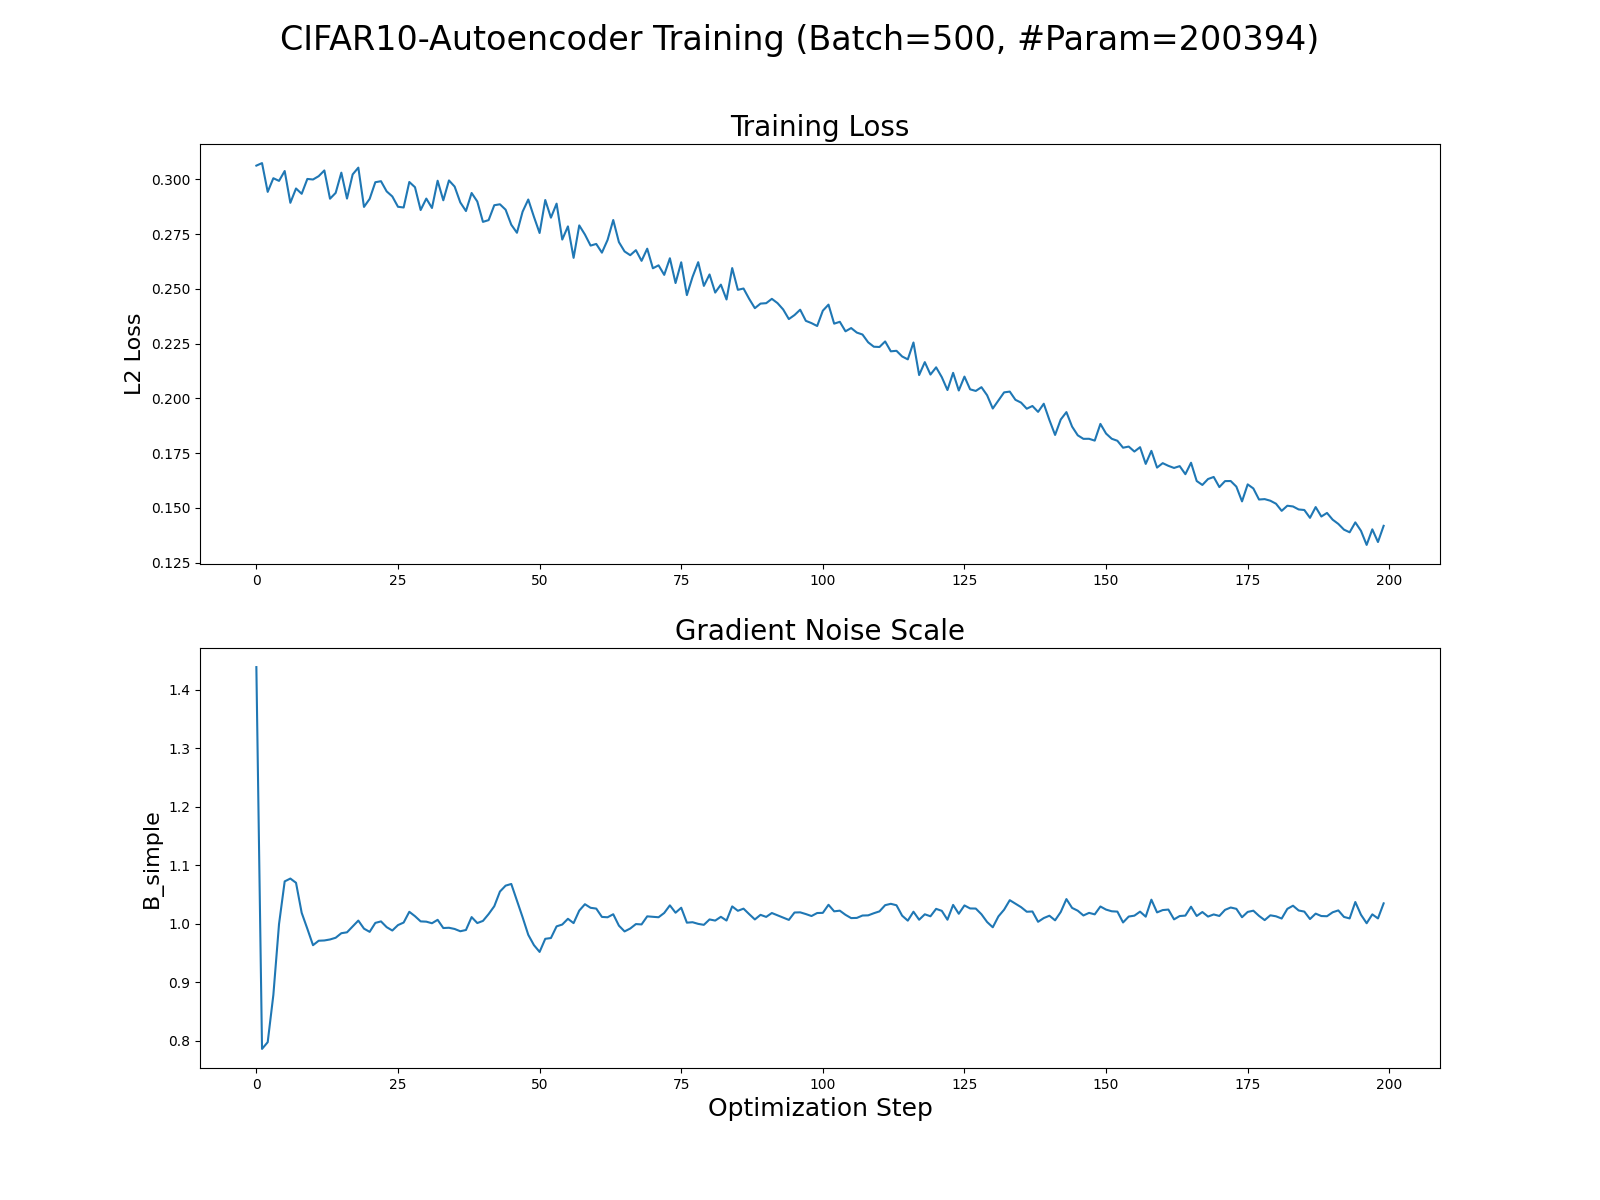
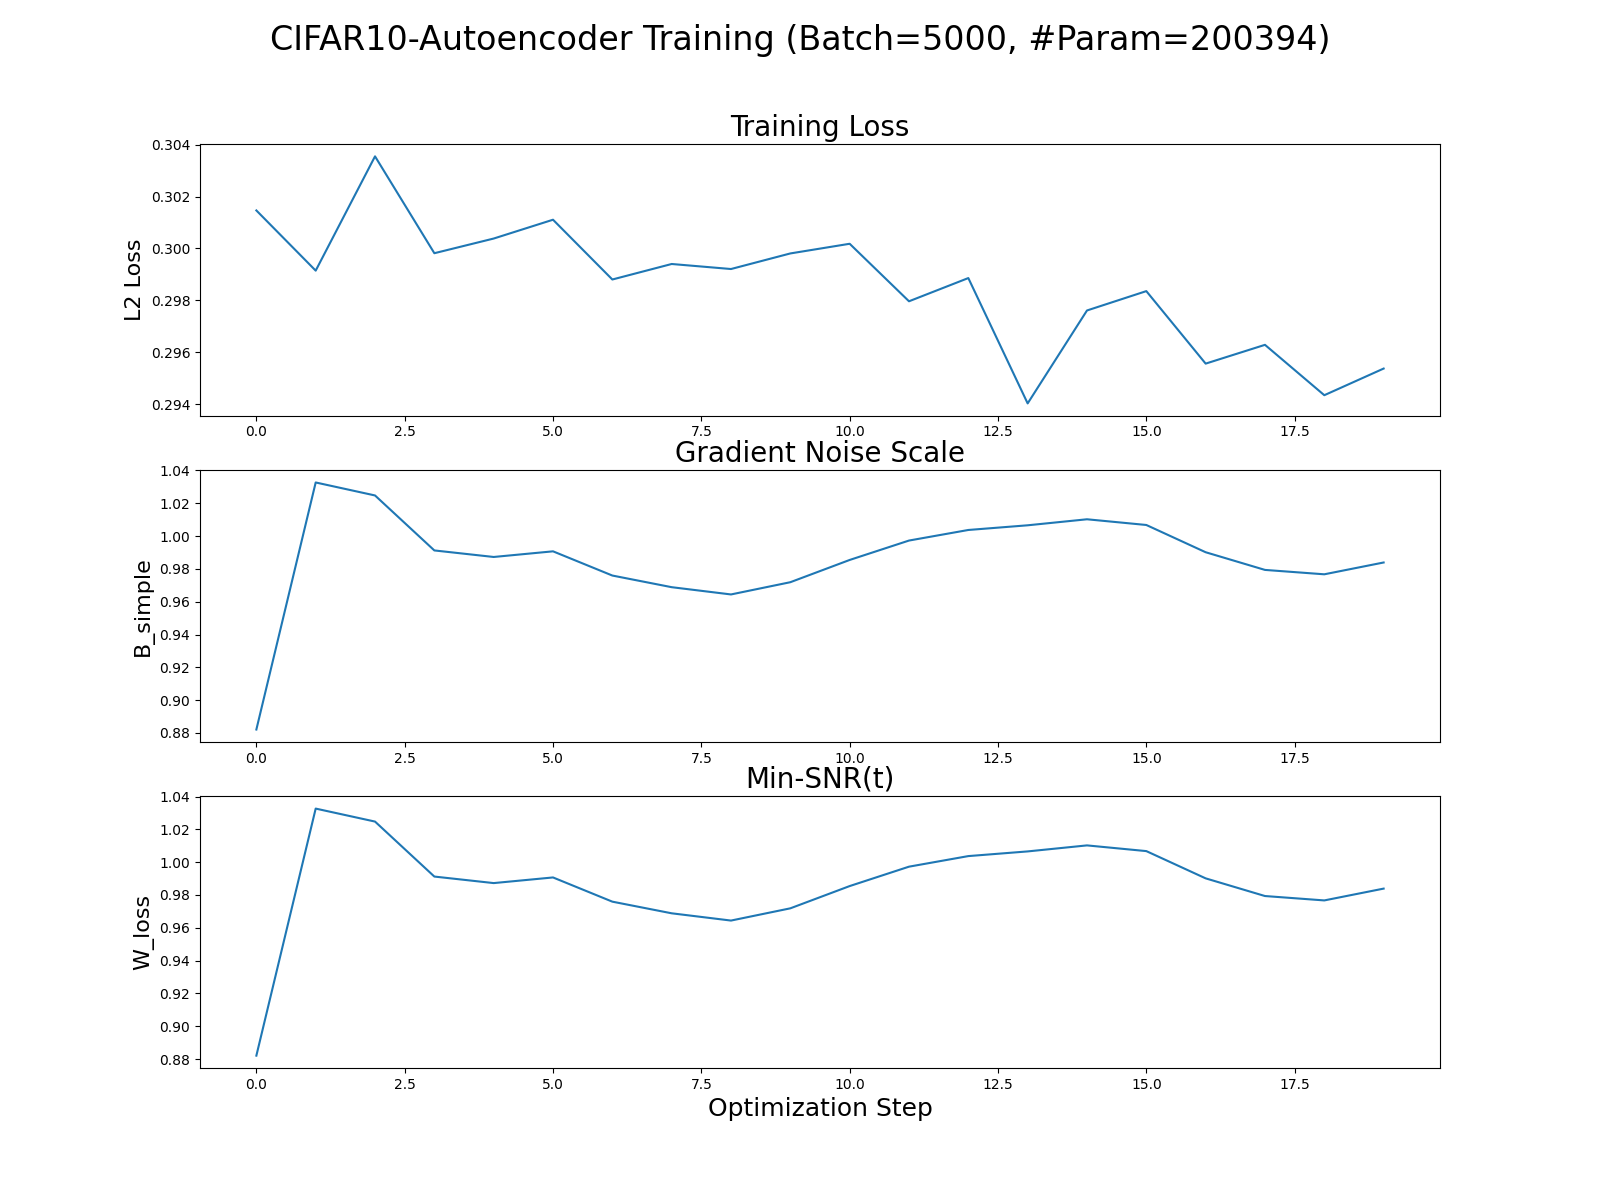
Min-SNR depricated, utils file, refactoring

diff --git a/simple_train.py b/simple_train.py
@@ -17,6 +17,7 @@ from tqdm import tqdm
 import diffusion
 #######################################################
 from GNS import GradientNoiseScale, get_gradient_vector
+from utils import visualize_training_gns
 #######################################################
 
 
@@ -32,12 +33,12 @@ def set_seed(seed, device):
         torch.cuda.manual_seed_all(seed)
 
 
-class Autoencoder(nn.Module):
+class SmallAE(nn.Module):
     """
     Simple Autoencoder Network
     """
     def __init__(self, img_shape=(3, 32, 32)):
-        super(Autoencoder, self).__init__()
+        super(SmallAE, self).__init__()
         C, H, W = img_shape
         self.device = device
         self.flatten = nn.Flatten()
@@ -63,6 +64,45 @@ class Autoencoder(nn.Module):
         return x
 
 
+
+class LargeAE(nn.Module):
+    def __init__(self, img_shape=(3, 32, 32)):
+        super(LargeAE, self).__init__()
+        C, H, W = img_shape
+        self.device = device
+        self.flatten = nn.Flatten()
+        self.unflatten = nn.Unflatten(dim=1, unflattened_size=(C, H, W))
+        self.encoder = nn.Sequential(
+            nn.Linear(C * H * W, 256),
+            nn.ReLU(),
+            nn.Linear(256, 128),
+            nn.ReLU(),
+            nn.Linear(128, 64),
+            nn.ReLU(),
+            nn.Linear(64, 32),
+            nn.ReLU(),
+            nn.Linear(32, 10)
+        )
+        self.decoder = nn.Sequential(
+            nn.Linear(10, 32),
+            nn.ReLU(),
+            nn.Linear(32, 64),
+            nn.ReLU(),
+            nn.Linear(64, 128),
+            nn.ReLU(),
+            nn.Linear(128, 256),
+            nn.ReLU(),
+            nn.Linear(256, C * H * W)
+        )
+
+    def forward(self, x: Tensor):
+        x = x.to(self.device)
+        x = self.flatten(x)
+        x = self.encoder(x)
+        x = self.decoder(x)
+        x = self.unflatten(x)
+
+
 def train_cifar(args, device):
     ## Arguments
     EPOCH = args.epoch
@@ -74,7 +114,13 @@ def train_cifar(args, device):
     loader = DataLoader(cifar10, batch_size=B_SIZE, shuffle=True)
 
     ## Training initialization
-    model = Autoencoder()
+    if args.model == "small":
+        model = SmallAE()
+    elif args.model == "large":
+        model = LargeAE()
+    else:
+        raise ValueError("Wrong model input")
+
     model.to(device)
     loss_fn = nn.MSELoss()
     opt = optim.Adam(model.parameters(), lr=L_RATE, weight_decay=0)
@@ -91,17 +137,18 @@ def train_cifar(args, device):
 
     ## Training loop
     model.train()
-    loss_log = []
-    gns_log = []
-    snr_log = []
+    loss_track = []
+    gns_track = []
     print("\n-------------Training Started-------------")
     for epoch in range(EPOCH):
         losses = []
         gns_scores = []
-        snr_scores = []
         for x, _ in tqdm(loader):
             opt.zero_grad()
+
+            ## Backpropagation
             x = x.to(device)
+            t = int(torch.randint(0, 1000, (1,), device=device))
             out = model(x)
             loss = loss_fn(out, x)
             loss.backward()
@@ -109,34 +156,31 @@ def train_cifar(args, device):
             ## Gradient Noise Scale
             G_est = get_gradient_vector(model)
             gns = GNS.gradient_SNR(G_est)
-            t = int(torch.randint(0, 1000, (1,), device=device))  # fixme
-        #    snr = GNS.min_SNR(t, gamma=5)
 
+            ## Tracking
             gns_scores.append(float(gns))
             losses.append(loss.item())
-        #    snr_scores.append(float(snr))
             opt.step()
 
         with torch.no_grad():
-            loss_log += losses
-            gns_log += gns_scores
-            snr_log += snr_scores
+            loss_track += losses
+            gns_track += gns_scores
 
             epoch_loss = np.mean(losses)
             epoch_gns = np.mean(gns_scores)
-        #    epoch_snr = np.mean(snr_scores)
-            print(f"[{epoch + 1}/{EPOCH}] Loss: {epoch_loss}\tGNS: {epoch_gns}\tMin-SNR-t: {epoch_snr}")
+            print(f"[{epoch + 1}/{EPOCH}] Loss: {epoch_loss}\tGNS: {epoch_gns}\t")
 
     model.eval()
     print("\n-------------Training Completed!--------------")
 
-    return GNS, loss_log, gns_log, snr_log
+    return GNS, loss_track, gns_track
 
 
 if __name__ == "__main__":
     parser = argparse.ArgumentParser()
     parser.add_argument("--epoch", type=int, default=2)
     parser.add_argument("--batch", type=int, default=500)
+    parser.add_argument("--model", type=str, choices=("small", "large"), default="small")
     parser.add_argument("--lr", type=float, default=1e-4)
     parser.add_argument("--g_true", type=float, default=1.0)
     parser.add_argument("--save_fig", type=str, default="cifar_train")
@@ -146,29 +190,10 @@ if __name__ == "__main__":
     print(f"\nHost: {socket.gethostname()}")
     print(f"Device: {device.upper()}")
 
-    GNS, loss_log, gns_log, snr_log = train_cifar(args, device=device)
+    ## Training
+    GNS, loss_log, gns_log = train_cifar(args, device=device)
 
-    plt.figure(figsize=(16, 12))
-    #g_size = int(len(GNS.dataset) * args.g_true)
-    param = sum(p.numel() for p in GNS.model.parameters() if p.requires_grad)
-    plt.suptitle(f"CIFAR10-Autoencoder Training (Batch={args.batch}, #Param={param})", fontsize=24)
+    ## Visualiation
+    visualize_training_gns(GNS, loss_log, gns_log, args=args)
 
-    plt.subplot(3, 1, 1)
-    plt.title("Training Loss", fontsize=20)
-    plt.ylabel("L2 Loss", fontsize=16)
-    plt.plot(loss_log)
-
-    plt.subplot(3, 1, 2)
-    plt.title("Gradient Noise Scale", fontsize=20)
-    plt.ylabel("B_simple", fontsize=16)
-    plt.plot(gns_log)
-
-    plt.subplot(3, 1, 3)
-    plt.title("Min-SNR(t)", fontsize=20)
-    plt.xlabel("Optimization Step", fontsize=18)
-    plt.ylabel("W_loss", fontsize=16)
-    plt.plot(gns_log)
-
-    plt.savefig(f"./visuals/{args.save_fig}.png")
-    print(f"Figure saved at visuals/{args.save_fig}.png\n")
     print("Done!")

diff --git a/GNS.py b/GNS.py
@@ -5,7 +5,7 @@ import torch
 import torch.nn as nn
 import torch.optim as optim
 from torch import Tensor
-from torch.utils.data import DataLoader, Dataset, Subset
+from torch.utils.data import DataLoader, Subset
 from tqdm import tqdm
 
 
@@ -17,7 +17,7 @@ def get_gradient_vector(model: nn.Module):
 
 
 ## TODO: Adjust for diffusion training (time-step dependence).
-## TODO: Investigate EMA (Exp. Moving Avg) and Min-SNR(t) weighting
+## TODO: Investigate EMA (Exp. Moving Avg)
 ## TODO: Improve/Correct B_crit calculation.
 ## TODO: Refactor prints.
 class GradientNoiseScale:
@@ -55,7 +55,7 @@ class GradientNoiseScale:
         self.G2 = torch.norm(self.G_true) ** 2
 
         self.G_est = 0  ## Current batch gradient
-        self.snr = 0    ## Current signal-to-noise ratio
+        self.g_snr = 0    ## Current signal-to-noise ratio
         self.gns = 0    ## Current gradient noise scale
         self.B_crit = self.critical_batch_size()
 
@@ -87,7 +87,6 @@ class GradientNoiseScale:
             loss.backward()
             grads = get_gradient_vector(self.model)
 
-
         self.model.eval()
         return grads
 
@@ -105,11 +104,11 @@ class GradientNoiseScale:
 
         noise = torch.sum(torch.pow(self.G_true - G_est, 2))
         signal = self.G2
-        self.snr = noise / signal
+        self.g_snr = noise / signal
 
-        return self.snr
+        return self.g_snr
 
-    def gradient_noise_scale(self, B_big=50_000, B_small=1000, reps: int = 10) -> float:
+    def gradient_noise_scale(self, B_big=30_000, B_small=1_000, reps:int = 10) -> float:
         """
         Calculates the 'unbiased' estimate of the simple noise scale
         Reference: An Empirical Model of Large Batch Training - Appendix A.1
@@ -153,6 +152,7 @@ class GradientNoiseScale:
         self.G_est = w_loss * self.G_est
 
         return w_loss
+
 
 
 if __name__ == "__main__":

diff --git a/utils.py b/utils.py
@@ -1,0 +1,28 @@
+import numpy as np
+import matplotlib.pyplot as plt
+
+import torch
+import torch.nn as nn
+from torch import Tensor
+from GNS import GradientNoiseScale
+
+
+
+def visualize_training_gns(GNS: GradientNoiseScale, loss_log: iter, gns_log: iter, args):
+    plt.figure(figsize=(16, 12))
+    # g_size = int(len(GNS.dataset) * args.g_true)
+    param = sum(p.numel() for p in GNS.model.parameters() if p.requires_grad)
+    plt.suptitle(f"CIFAR10-Autoencoder Training (Batch={args.batch}, #Param={param})", fontsize=24)
+
+    plt.subplot(3, 1, 1)
+    plt.title("Training Loss", fontsize=20)
+    plt.ylabel("L2 Loss", fontsize=16)
+    plt.plot(loss_log)
+
+    plt.subplot(3, 1, 2)
+    plt.title("Gradient Noise Scale", fontsize=20)
+    plt.ylabel("B_simple", fontsize=16)
+    plt.plot(gns_log)
+
+    plt.savefig(f"./visuals/{args.save_fig}.png")
+    print(f"Figure saved at visuals/{args.save_fig}.png\n")
